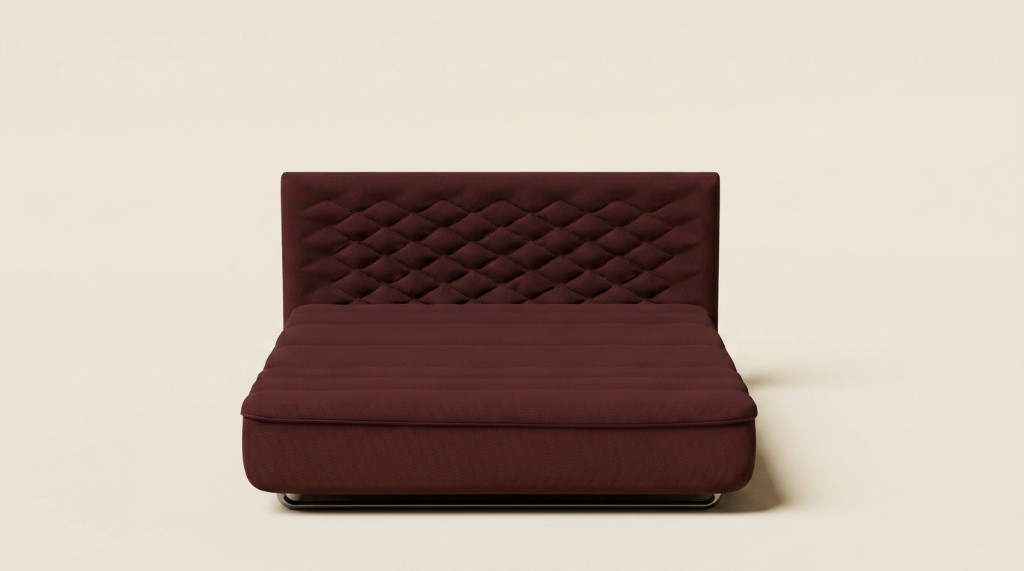
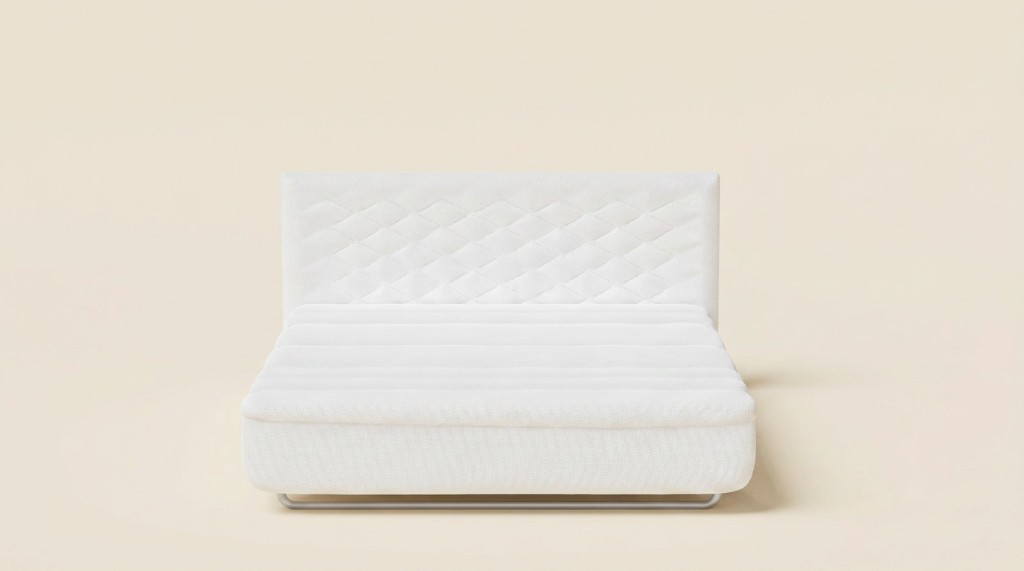
Replace hero with white bed image and restore original hero styling.

Changed region(s): [[0.2188, 0.2977, 0.7812, 0.9229]]

diff --git a/index.html b/index.html
@@ -75,10 +75,10 @@
     padding: 130px 6% 80px;
     position: relative;
     overflow: hidden;
-    background-color: #F5F2E9;
+    background-color: #F7F1EA;
     background-image: url('assets/hero-bed.png');
     background-size: cover;
-    background-position: center bottom;
+    background-position: center;
     background-repeat: no-repeat;
   }
   .hero-overlay {
@@ -86,9 +86,9 @@
     inset: 0;
     background: linear-gradient(
       to bottom,
-      rgba(245, 242, 233, 0.55) 0%,
-      rgba(245, 242, 233, 0.12) 42%,
-      rgba(245, 242, 233, 0.35) 100%
+      rgba(247, 241, 234, 0.72) 0%,
+      rgba(247, 241, 234, 0.30) 45%,
+      rgba(247, 241, 234, 0.72) 100%
     );
     pointer-events: none;
   }
@@ -625,16 +625,15 @@
   }
   body.dark nav { background: rgba(20, 12, 10, 0.92); border-color: rgba(226,201,180,0.16); }
   body.dark .hero {
-    background-color: #1A100E;
+    background-color: #140C0A;
     background-image: url('assets/hero-bed.png');
-    background-position: center bottom;
   }
   body.dark .hero-overlay {
     background: linear-gradient(
       to bottom,
-      rgba(20, 12, 10, 0.75) 0%,
-      rgba(20, 12, 10, 0.35) 42%,
-      rgba(20, 12, 10, 0.55) 100%
+      rgba(20, 12, 10, 0.68) 0%,
+      rgba(20, 12, 10, 0.40) 45%,
+      rgba(20, 12, 10, 0.68) 100%
     );
   }
   body.dark .hero h1,